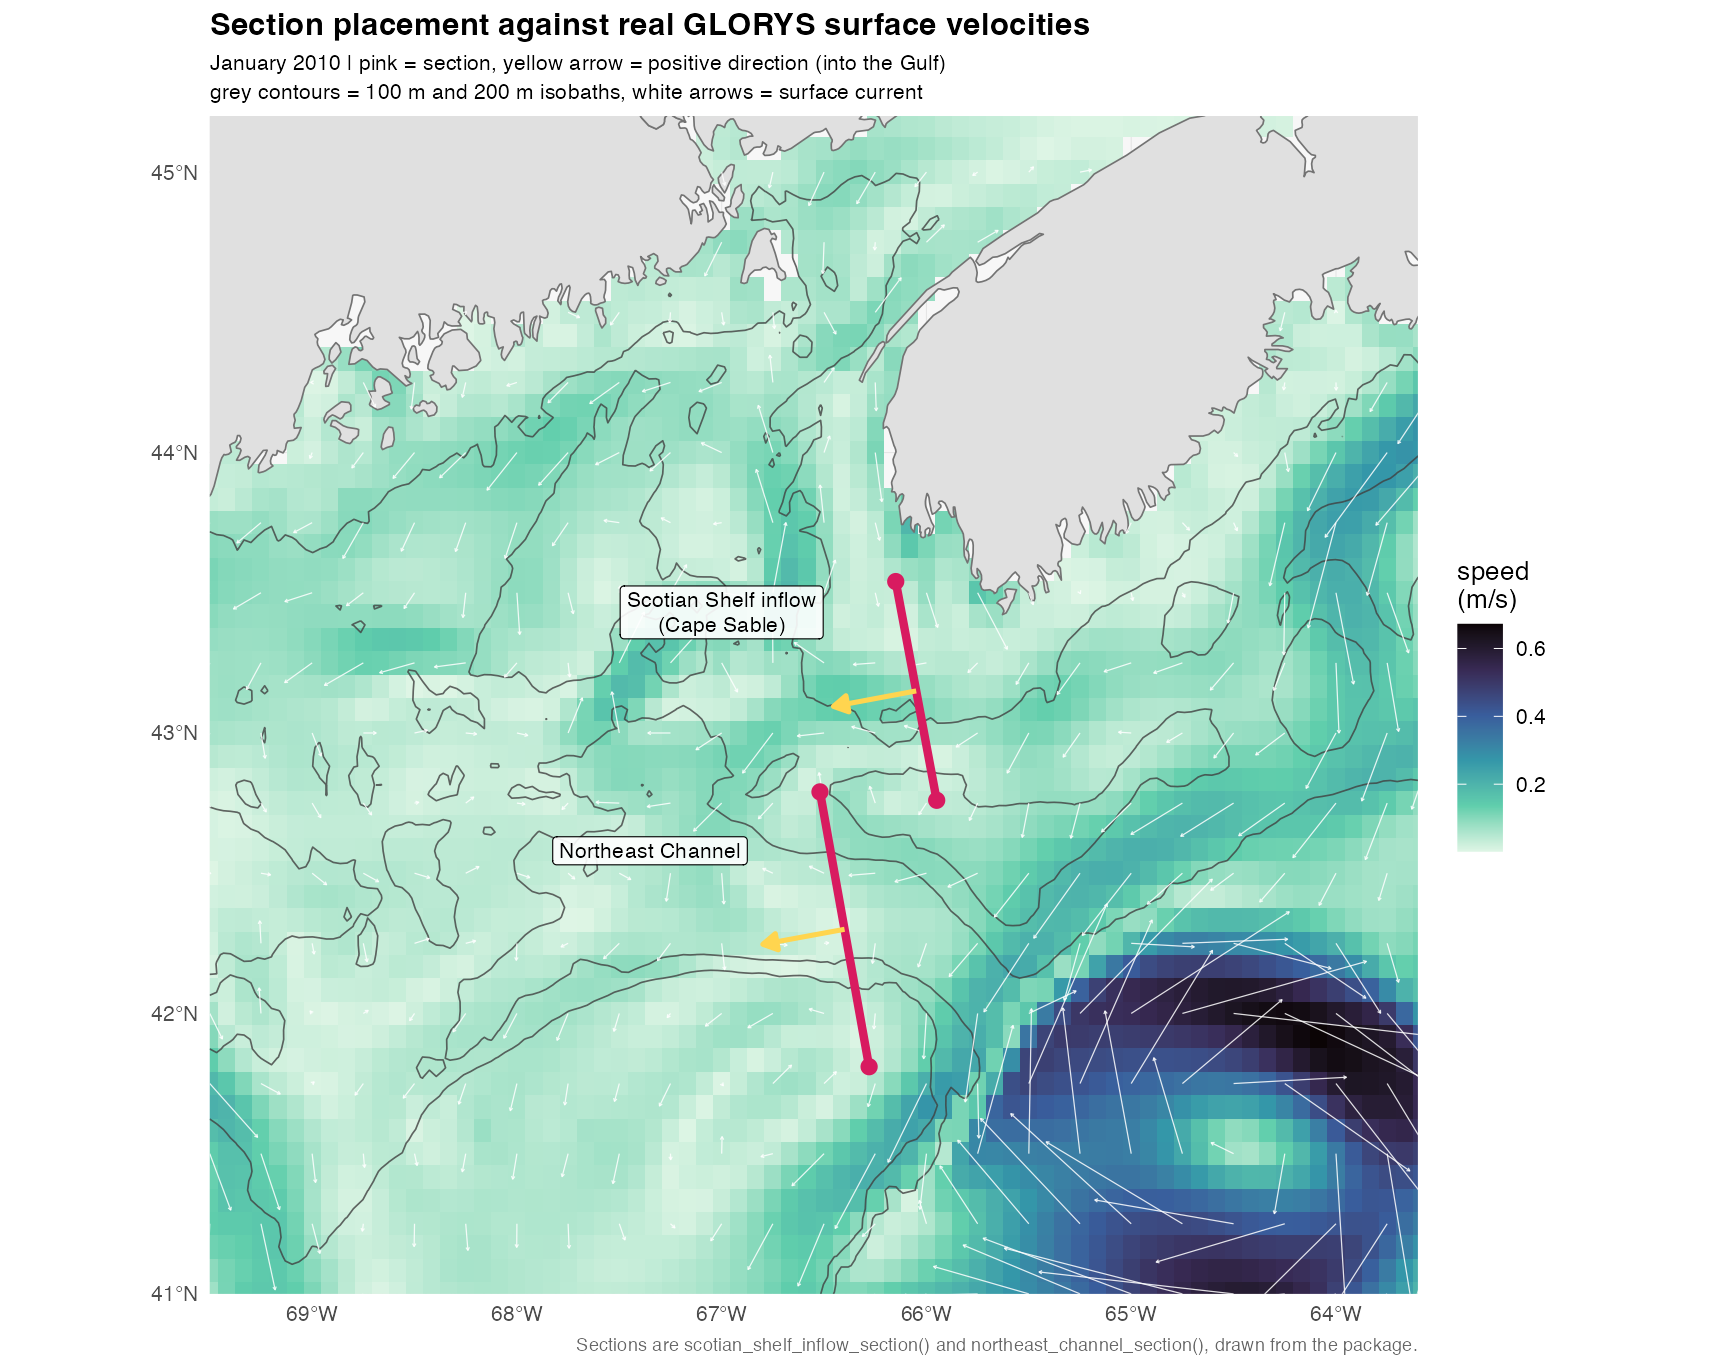
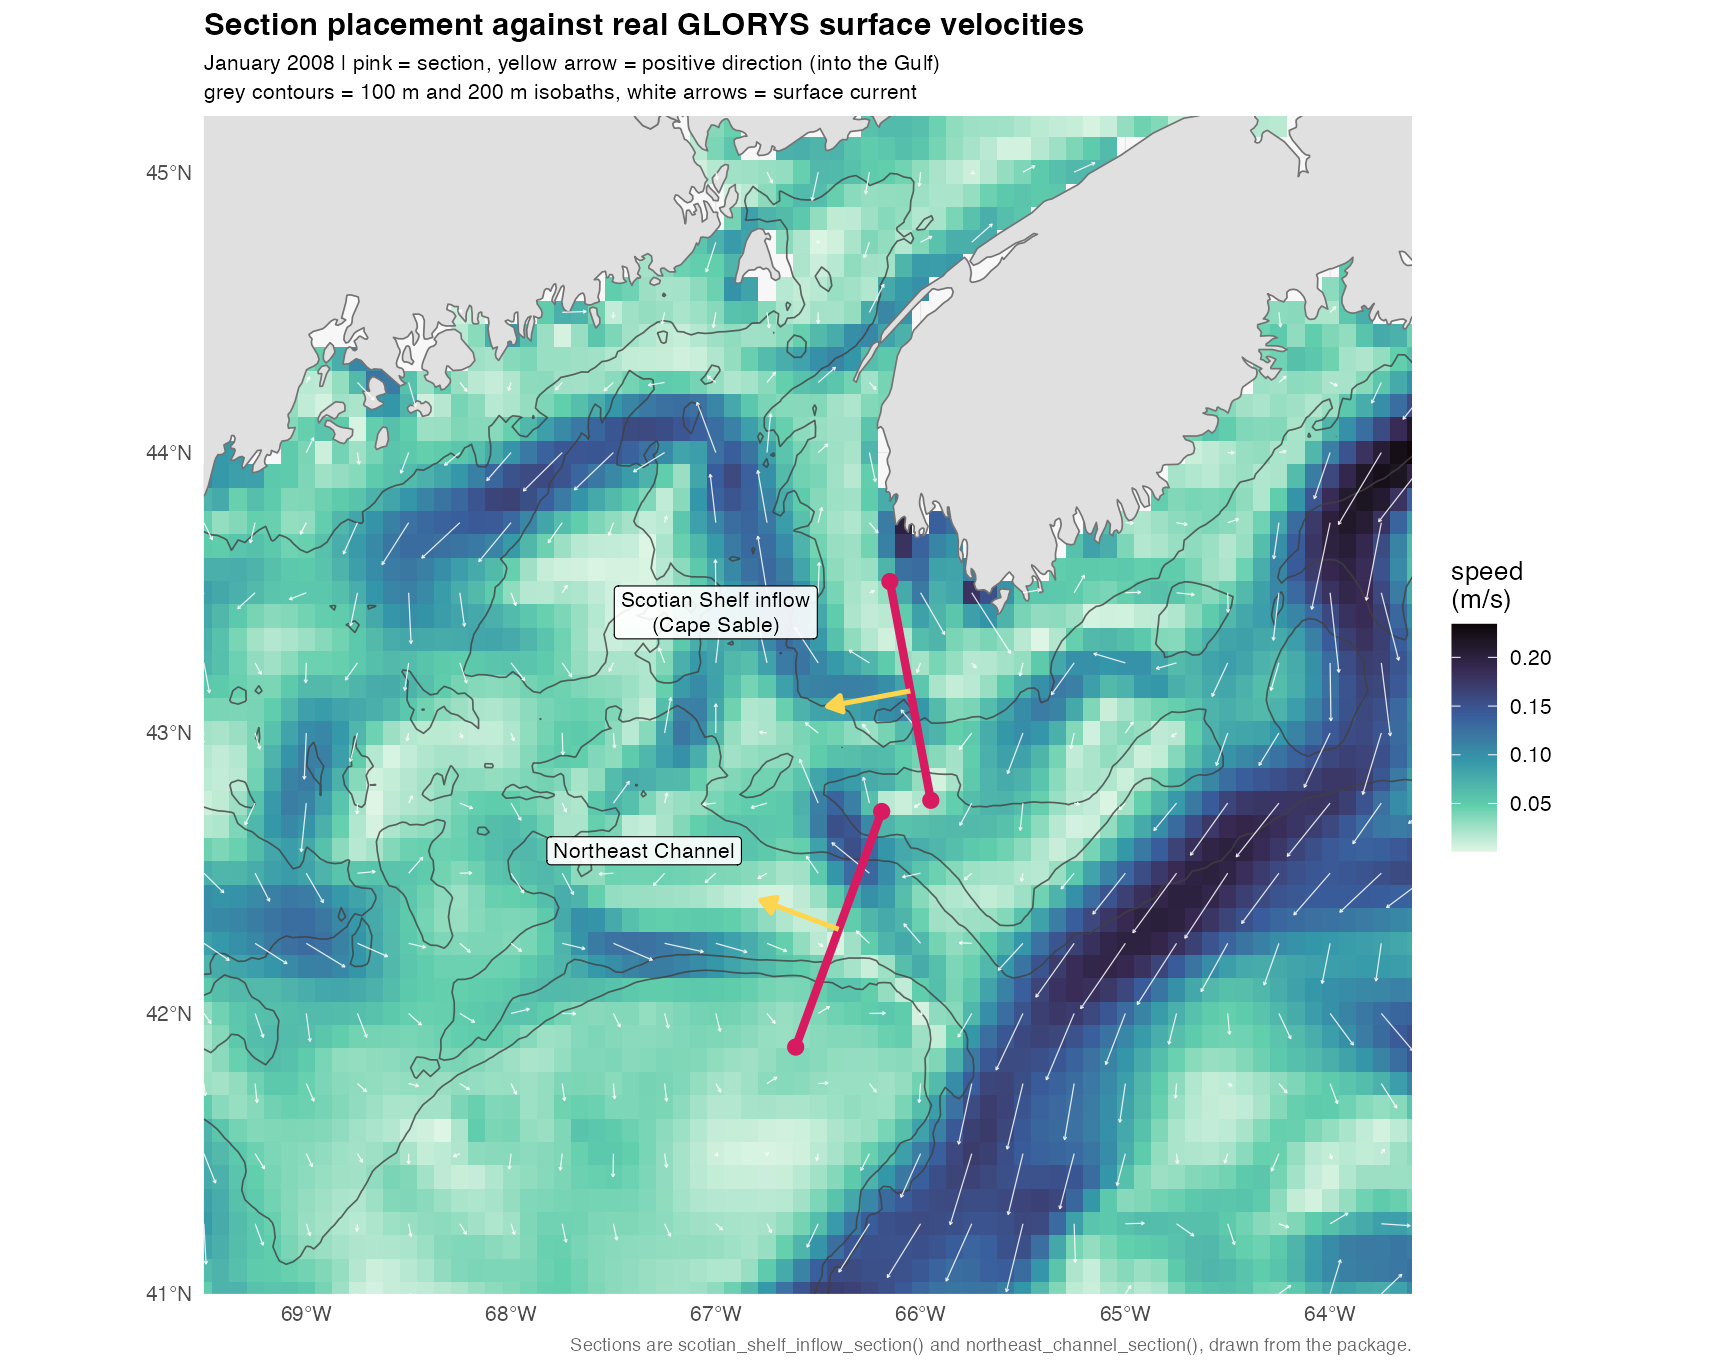
Re-place the Northeast Channel section on 60 months, not one season
Re-running the diagnostics on summer, as the last commit said should be done,
showed the placement had been fitted too narrowly. Four months had seemed enough
to avoid chasing one month's circulation, but all four came from 2010:

                       fitted window   five winters   five summers
  Cape Sable capture        0.99            0.75           0.65
  Northeast Channel         0.93            0.59           0.80

The Channel section was tuned to a single winter and lost a third of its capture
on the others. The search was re-run over all 60 months of 2008-2012, scoring
capture minus half its standard deviation minus half the endpoint ratio, so a
section that works consistently beats one that peaks somewhere.

The Channel section moves, and improves on every measure: winter capture 0.59 to
0.84, all-month capture 0.67 to 0.80, endpoint ratio 0.45 to 0.36, winter
transport +456 to +1,688 m^2/s, and winters with positive transport 70% to 80%.
Depth along it runs 60, 126, 222, 253, 253, 201, 82, 81, 73 m, so it is still
bank-channel-bank rather than merely a better-scoring line.

Cape Sable does not move. The search offered an orientation scoring higher on
capture, 0.78 against 0.72, and it was rejected: winter transport collapsed from
about +1,400 to +160 and only 45% of winters stayed positive. It aligned better
with the total flow while cancelling the inflow, which is the thing the index
exists to measure.

Two findings worth recording beyond the endpoints.
[…]

diff --git a/docs/methods.md b/docs/methods.md
@@ -37,7 +37,10 @@ older pipeline they replace. The function documentation says *what*; this says
   - [What the first placement showed](#what-the-first-placement-showed)
   - [How the replacements were found](#how-the-replacements-were-found)
   - [The bathymetric cross-check](#the-bathymetric-cross-check)
-  - [After](#after)
+  - [After, on the window it was fitted to](#after-on-the-window-it-was-fitted-to)
+  - [The seasonal re-check, which found the fit was too narrow](#the-seasonal-re-check-which-found-the-fit-was-too-narrow)
+  - [A limit no placement can fix](#a-limit-no-placement-can-fix)
+  - [The transport reverses in summer, and that is the signal](#the-transport-reverses-in-summer-and-that-is-the-signal)
   - [The sign convention, checked rather than assumed](#the-sign-convention-checked-rather-than-assumed)
   - [What this does not settle](#what-this-does-not-settle)
 - [Eddy kinetic energy](#eddy-kinetic-energy)
@@ -681,17 +684,80 @@ Georges Bank. That is a crossing. The original line stayed inside the deep water
 for its whole length, which is the geometric signature of running along a
 channel rather than across it.
 
-### After
+### After, on the window it was fitted to
 
 | | Cape Sable | Northeast Channel |
 |---|---|---|
 | Flow vs. normal | 50° → **9°** | 75° → **21°** |
 | Capture fraction | 0.65 → **0.99** | 0.27 → **0.93** |
 | Endpoint normal velocity | → −0.012 / +0.020 m/s | → +0.002 / −0.002 m/s |
-| Peak normal velocity | 0.099 m/s | 0.052 m/s |
 
-The Channel endpoints now sit at ±0.002 m/s against a 0.052 m/s peak, about 4%.
-The section spans the flow.
+Those numbers are from January–April 2010, the same four months the search
+scored on, and they are too good. See the next section.
+
+### The seasonal re-check, which found the fit was too narrow
+
+Four months sounded like enough to avoid fitting one month's circulation. It was
+not, because all four came from the same year. Re-scoring on **60 months**
+(2008–2012) told a different story:
+
+| | fitted window (2010) | five winters | five summers |
+|---|---|---|---|
+| Cape Sable capture | 0.99 | 0.75 | 0.65 |
+| Northeast Channel capture | 0.93 | **0.59** | 0.80 |
+
+The Channel section had been tuned to a single winter and lost a third of its
+capture on the others. So the search was re-run over all 60 months, scoring
+`capture − 0.5·sd(capture) − 0.5·endpoint`, which rewards a section that works
+consistently rather than one that peaks somewhere.
+
+**The Northeast Channel section moved.** The replacement is better on every
+measure:
+
+| | before | after |
+|---|---|---|
+| Capture, five winters | 0.59 | **0.84** |
+| Capture, all 60 months | 0.67 | **0.80** |
+| Endpoint ratio | 0.45 | **0.36** |
+| Winter transport | +456 | **+1,688** m²/s |
+| Winters with positive transport | 70% | **80%** |
+
+Depth along it runs 60, 126, 222, 253, 253, 201, 82, 81, 73 m: bank, channel,
+bank, so it is still a crossing and not merely a better-scoring line.
+
+**The Cape Sable section did not move**, and the reason is worth recording. The
+60-month search found an orientation scoring higher on capture, 0.78 against
+0.72. It was rejected: its winter transport collapsed from about +1,400 to +160
+m²/s, and only 45% of winters came out positive against 75% before. It aligned
+better with the *total* flow while nearly cancelling the *inflow*, which is the
+thing the index exists to measure. Capturing the signal beats capturing the flow.
+
+### A limit no placement can fix
+
+Capture has a standard deviation of about 0.25 in every candidate tested. The
+flow direction itself rotates through the year, so no fixed line can be
+perpendicular to it in every month. A section is a compromise across seasons, and
+0.8 sustained is close to the practical ceiling here.
+
+### The transport reverses in summer, and that is the signal
+
+| | winter (Jan–Apr) | summer (Jun–Sep) |
+|---|---|---|
+| Cape Sable | +1,404 ± 2,869 | **−2,989** ± 2,939 |
+| Northeast Channel | +1,688 ± 2,339 | **−2,744** ± 2,454 |
+| Months positive | 75–80% | 10–20% |
+
+Surface transport at both sections runs *out* of the Gulf through summer. This is
+not a placement error and not a sign convention bug: it is what the surface layer
+does once the winter inflow weakens, and both sections agree on it independently.
+
+The convention stays anchored on winter, when inflow dominates, so positive
+continues to mean into the Gulf. A summer value is a real negative rather than a
+failure, and the search was written to allow it: requiring every month to be
+positive would have selected a section incapable of seeing the reversal.
+
+The standard deviations are as large as the means, so a single month's value
+carries little. These are seasonal indices.
 
 ![Section placement over GLORYS velocities](figures/section-placement.png)
 
@@ -721,9 +787,10 @@ baroclinic, and Ramp et al. (1985) measured a persistent *deep* inflow there. A
 surface section can run opposite to it. If depth-resolved velocities are
 available, fetch them at channel depth and pass them to `section_transport()`.
 
-**Four months of one year.** January–April 2010 is a winter-into-spring
-circulation. An orientation that suits winter need not suit summer, and the
-diagnostics are worth re-running on the period actually being modelled.
+**Five years, monthly.** 2008–2012 covers seasonal and some interannual
+variation, but not a regime shift, and monthly means have averaged away the
+storm-driven pulses that move a lot of water. The diagnostics are worth re-running
+on the period actually being modelled.
 
 **A model, not measurements.** GLORYS is a reanalysis. The sections are placed
 correctly relative to *its* circulation.

diff --git a/README.md b/README.md
@@ -292,11 +292,15 @@ place is defined by that place. `section_transport()` is the general function,
 and `scotian_shelf_inflow_section()` reports the geometry so it can be plotted
 or checked.
 
-Those endpoints were measured against real GLORYS velocities rather than chosen
-from a map: 99% of the local flow crosses the Cape Sable section and 93% the
-Northeast Channel one, and both go to near zero at their ends. An earlier pair
-picked by eye managed 65% and 27%, the second running nearly along the channel
-instead of across it.
+Those endpoints were measured against 60 months of real GLORYS velocities rather
+than chosen from a map. Around 80% of the local flow crosses each section, against
+65% and 27% for an earlier pair picked by eye, the second of which ran nearly
+along the channel instead of across it.
+
+Both transports **reverse sign in summer**: positive into the Gulf through
+winter, negative from June to September, at both sections independently. That is
+the surface circulation, not a bug, so read these as seasonal indices and not as
+a year-round inflow.
 [`docs/methods.md`](docs/methods.md#how-the-named-sections-were-placed) records
 how, with figures, and
 [`docs/section-placement-diagnostics.R`](docs/section-placement-diagnostics.R)
